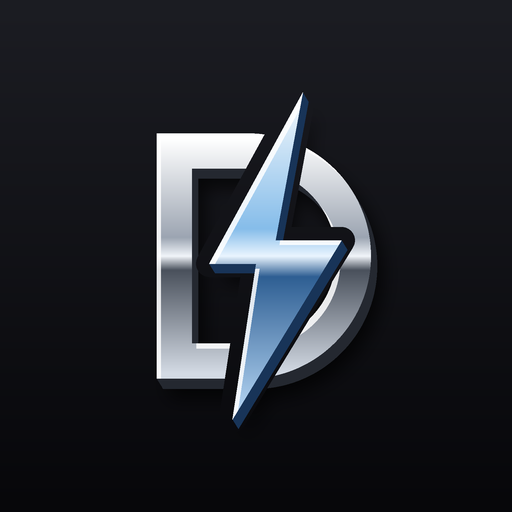
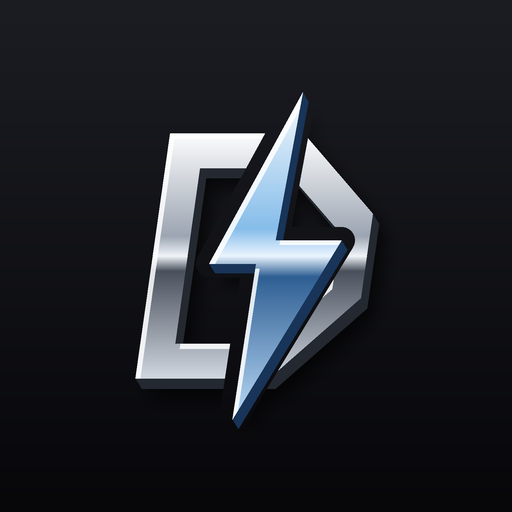
Novo D angular e APK atualizável por cima
Claude-Session: https://claude.ai/code/session_01JRCEB9fLo3ZnfFUDQdqtVv

diff --git a/app/src/main/assets/index.html b/app/src/main/assets/index.html
@@ -105,9 +105,11 @@ input[type=file]{position:absolute;width:1px;height:1px;opacity:0;pointer-events
       <stop offset="0" stop-color="#ffffff"/><stop offset=".42" stop-color="#86bdea"/><stop offset=".5" stop-color="#eaf5ff"/><stop offset=".56" stop-color="#2f5f93"/><stop offset="1" stop-color="#c4e3ff"/>
     </linearGradient>
     <symbol id="logo" viewBox="0 0 100 100">
-      <path d="M29 23h19a27 27 0 0 1 0 54H29z" fill="none" stroke="#262a31" stroke-width="9" stroke-linejoin="round" transform="translate(2.2 3.4)"/>
-      <path d="M29 23h19a27 27 0 0 1 0 54H29z" fill="none" stroke="url(#chD)" stroke-width="9" stroke-linejoin="round"/>
-      <path d="M29 23h19a27 27 0 0 1 0 54H29z" fill="none" stroke="#fff" stroke-opacity=".8" stroke-width="1.5" stroke-linejoin="round" transform="translate(-2.5 -2.5)"/>
+      <g transform="translate(7 0) skewX(-8)">
+        <path d="M23.5 18.5H57.86L78.5 39.14V60.86L57.86 81.5H23.5ZM32.5 27.5H54.14L69.5 42.86V57.14L54.14 72.5H32.5Z" fill="#262a31" fill-rule="evenodd" transform="translate(2.2 3.4)"/>
+        <path d="M23.5 18.5H57.86L78.5 39.14V60.86L57.86 81.5H23.5ZM32.5 27.5H54.14L69.5 42.86V57.14L54.14 72.5H32.5Z" fill="url(#chD)" fill-rule="evenodd"/>
+        <path d="M23.5 19H57.7L78 39.3" fill="none" stroke="#fff" stroke-opacity=".85" stroke-width="1.2" stroke-linejoin="miter"/>
+      </g>
       <path d="M62 8 38 52h12l-6 40 28-46H55z" fill="#000" stroke="#000" stroke-width="7" stroke-linejoin="miter"/>
       <path d="M62 8 38 52h12l-6 40 28-46H55z" fill="#1b3a60" transform="translate(2 3)"/>
       <path d="M62 8 38 52h12l-6 40 28-46H55z" fill="url(#chB)" stroke="#fff" stroke-opacity=".7" stroke-width=".8" stroke-linejoin="miter"/>

diff --git a/index.html b/index.html
@@ -112,9 +112,11 @@ input[type=file]{position:absolute;width:1px;height:1px;opacity:0;pointer-events
       <stop offset="0" stop-color="#ffffff"/><stop offset=".42" stop-color="#86bdea"/><stop offset=".5" stop-color="#eaf5ff"/><stop offset=".56" stop-color="#2f5f93"/><stop offset="1" stop-color="#c4e3ff"/>
     </linearGradient>
     <symbol id="logo" viewBox="0 0 100 100">
-      <path d="M29 23h19a27 27 0 0 1 0 54H29z" fill="none" stroke="#262a31" stroke-width="9" stroke-linejoin="round" transform="translate(2.2 3.4)"/>
-      <path d="M29 23h19a27 27 0 0 1 0 54H29z" fill="none" stroke="url(#chD)" stroke-width="9" stroke-linejoin="round"/>
-      <path d="M29 23h19a27 27 0 0 1 0 54H29z" fill="none" stroke="#fff" stroke-opacity=".8" stroke-width="1.5" stroke-linejoin="round" transform="translate(-2.5 -2.5)"/>
+      <g transform="translate(7 0) skewX(-8)">
+        <path d="M23.5 18.5H57.86L78.5 39.14V60.86L57.86 81.5H23.5ZM32.5 27.5H54.14L69.5 42.86V57.14L54.14 72.5H32.5Z" fill="#262a31" fill-rule="evenodd" transform="translate(2.2 3.4)"/>
+        <path d="M23.5 18.5H57.86L78.5 39.14V60.86L57.86 81.5H23.5ZM32.5 27.5H54.14L69.5 42.86V57.14L54.14 72.5H32.5Z" fill="url(#chD)" fill-rule="evenodd"/>
+        <path d="M23.5 19H57.7L78 39.3" fill="none" stroke="#fff" stroke-opacity=".85" stroke-width="1.2" stroke-linejoin="miter"/>
+      </g>
       <path d="M62 8 38 52h12l-6 40 28-46H55z" fill="#000" stroke="#000" stroke-width="7" stroke-linejoin="miter"/>
       <path d="M62 8 38 52h12l-6 40 28-46H55z" fill="#1b3a60" transform="translate(2 3)"/>
       <path d="M62 8 38 52h12l-6 40 28-46H55z" fill="url(#chB)" stroke="#fff" stroke-opacity=".7" stroke-width=".8" stroke-linejoin="miter"/>

diff --git a/sw.js b/sw.js
@@ -1,4 +1,4 @@
-const C='dreams-v7';
+const C='dreams-v8';
 const FILES=['./','./index.html','./manifest.webmanifest','./icon-192.png','./icon-512.png'];
 self.addEventListener('install',e=>{e.waitUntil(caches.open(C).then(c=>c.addAll(FILES)).then(()=>self.skipWaiting()))});
 self.addEventListener('activate',e=>{e.waitUntil(caches.keys().then(k=>Promise.all(k.filter(x=>x!==C).map(x=>caches.delete(x)))).then(()=>self.clients.claim()))});

diff --git a/LEIA-ME.md b/LEIA-ME.md
@@ -11,6 +11,10 @@ App Android para guardar os PDFs dos seus projetos de sonho.
 O APK é gerado sozinho na aba **Actions** ("Gerar APK") a cada atualização, em uns 5 a 8 minutos.
 Para gerar na hora: Actions > Gerar APK > Run workflow.
 
+## Atualizar
+Baixe o APK novo em Releases e instale por cima do app. Os PDFs e as capas continuam lá.
+(Funciona porque o app mantém o mesmo nome de pacote e a mesma chave, e cada versão tem um número maior.)
+
 ## Onde ficam os PDFs
 Só dentro do próprio app, no aparelho. Nada é enviado para a internet.
 Se desinstalar o app ou limpar os dados dele, os PDFs somem. Guarde os originais.
